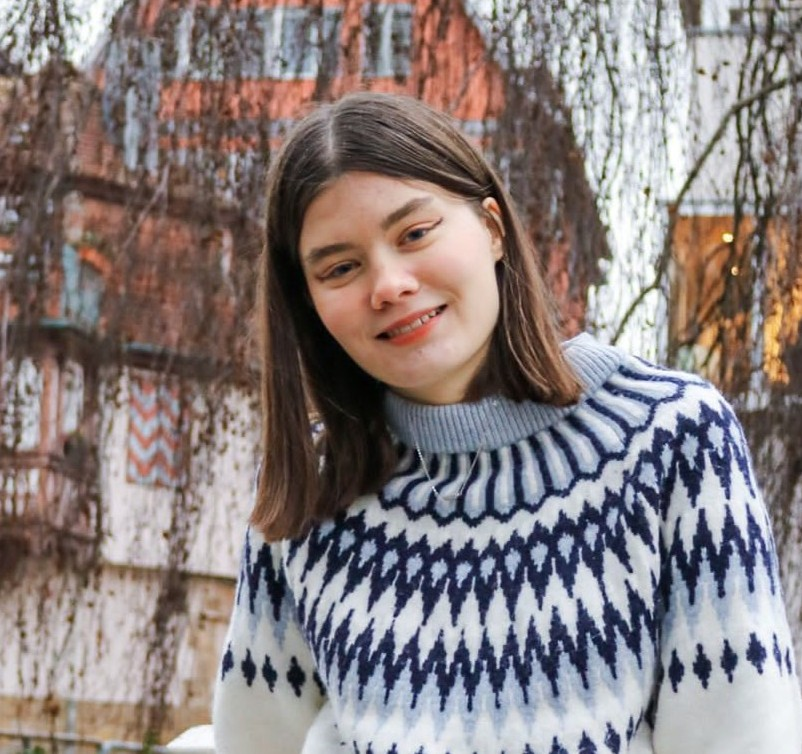
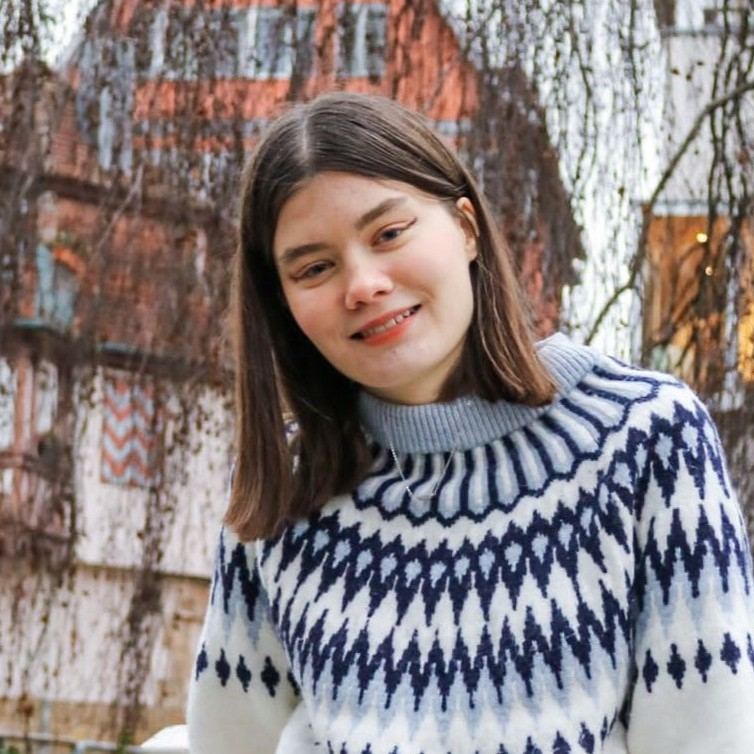
added david and sorted by alphabet. Cut winnie to square

diff --git a/_pages/organizers.md b/_pages/organizers.md
@@ -11,26 +11,6 @@ nav_order:
 <div class="row justify-content-left">
     <div class="col-auto mb-3">
         <div class="card h-100" style="width: 14rem;">
-            <img src="/assets/img/organisers/hannah_schuett.jpeg" class="card-img-top" alt="Hannah Schütt">
-            <div class="card-body">
-              <h5 class="card-title">Hannah Schütt</h5>
-              <h6 class="card-subtitle mb-2 text-muted"></h6>
-                <p class="card-text"></p>
-            </div>
-        </div>
-    </div>
-    <div class="col-auto mb-3">
-        <div class="card h-100" style="width: 14rem;">
-          <img src="/assets/img/organisers/mia_schienagel.jpeg" class="card-img-top" alt="Mia Schienagel">
-            <div class="card-body">
-              <h5 class="card-title">Mia Schienagel</h5>
-              <h6 class="card-subtitle mb-2 text-muted"></h6>
-                <p class="card-text"></p>
-            </div>
-        </div>
-    </div>
-    <div class="col-auto mb-3">
-        <div class="card h-100" style="width: 14rem;">
           <img src="/assets/img/organisers/alsou_bellmann.jpeg" class="card-img-top" alt="Alsou Bellmann">
             <div class="card-body">
               <h5 class="card-title">Alsou Bellmann</h5>
@@ -39,21 +19,11 @@ nav_order:
             </div>
         </div>
     </div>
-    <div class="col-auto mb-3">
+     <div class="col-auto mb-3">
         <div class="card h-100" style="width: 14rem;">
-          <img src="/assets/img/organisers/winnie_klenz.jpg" class="card-img-top" alt="Winnie Klenz">
+          <img src="/assets/img/organisers/vira_frejlak.jpg" class="card-img-top" alt="Virzhiniia (Vira) Frejlak">
             <div class="card-body">
-              <h5 class="card-title">Winnie Klenz</h5>
-                <h6 class="card-subtitle mb-2 text-muted"></h6>
-                    <p class="card-text"></p>
-            </div>
-        </div>
-    </div>
-    <div class="col-auto mb-3">
-        <div class="card h-100" style="width: 14rem;">
-          <img src="/assets/img/organisers/yarik_moeller.jpg" class="card-img-top" alt="Yarik Moeller">
-            <div class="card-body">
-              <h5 class="card-title">Yarik Moeller</h5>
+              <h5 class="card-title">Virzhiniia (Vira) Frejlak</h5>
                 <h6 class="card-subtitle mb-2 text-muted"></h6>
                     <p class="card-text"></p>
             </div>
@@ -71,12 +41,52 @@ nav_order:
     </div>
     <div class="col-auto mb-3">
         <div class="card h-100" style="width: 14rem;">
-          <img src="/assets/img/organisers/vira_frejlak.jpg" class="card-img-top" alt="Virzhiniia (Vira) Frejlak">
+          <img src="/assets/img/organisers/winnie_klenz.jpg" class="card-img-top" alt="Winnie Klenz">
             <div class="card-body">
-              <h5 class="card-title">Virzhiniia (Vira) Frejlak</h5>
+              <h5 class="card-title">Winnie Klenz</h5>
                 <h6 class="card-subtitle mb-2 text-muted"></h6>
                     <p class="card-text"></p>
             </div>
         </div>
     </div>
+     <div class="col-auto mb-3">
+        <div class="card h-100" style="width: 14rem;">
+          <img src="/assets/img/organisers/david_marx_stolting.jpeg" class="card-img-top" alt="David Marx-Stölting">
+            <div class="card-body">
+              <h5 class="card-title">David Marx-Stölting</h5>
+                <h6 class="card-subtitle mb-2 text-muted"></h6>
+                    <p class="card-text"></p>
+            </div>
+        </div>
+    </div>
+    <div class="col-auto mb-3">
+        <div class="card h-100" style="width: 14rem;">
+          <img src="/assets/img/organisers/yarik_moeller.jpg" class="card-img-top" alt="Yarik Möller">
+            <div class="card-body">
+              <h5 class="card-title">Yarik Möller</h5>
+                <h6 class="card-subtitle mb-2 text-muted"></h6>
+                    <p class="card-text"></p>
+            </div>
+        </div>
+    </div>
+     <div class="col-auto mb-3">
+        <div class="card h-100" style="width: 14rem;">
+          <img src="/assets/img/organisers/mia_schienagel.jpeg" class="card-img-top" alt="Mia Schienagel">
+            <div class="card-body">
+              <h5 class="card-title">Mia Schienagel</h5>
+              <h6 class="card-subtitle mb-2 text-muted"></h6>
+                <p class="card-text"></p>
+            </div>
+        </div>
+    </div>
+    <div class="col-auto mb-3">
+        <div class="card h-100" style="width: 14rem;">
+            <img src="/assets/img/organisers/hannah_schuett.jpeg" class="card-img-top" alt="Hannah Schütt">
+            <div class="card-body">
+              <h5 class="card-title">Hannah Schütt</h5>
+              <h6 class="card-subtitle mb-2 text-muted"></h6>
+                <p class="card-text"></p>
+            </div>
+        </div>
+    </div>   
 </div>
